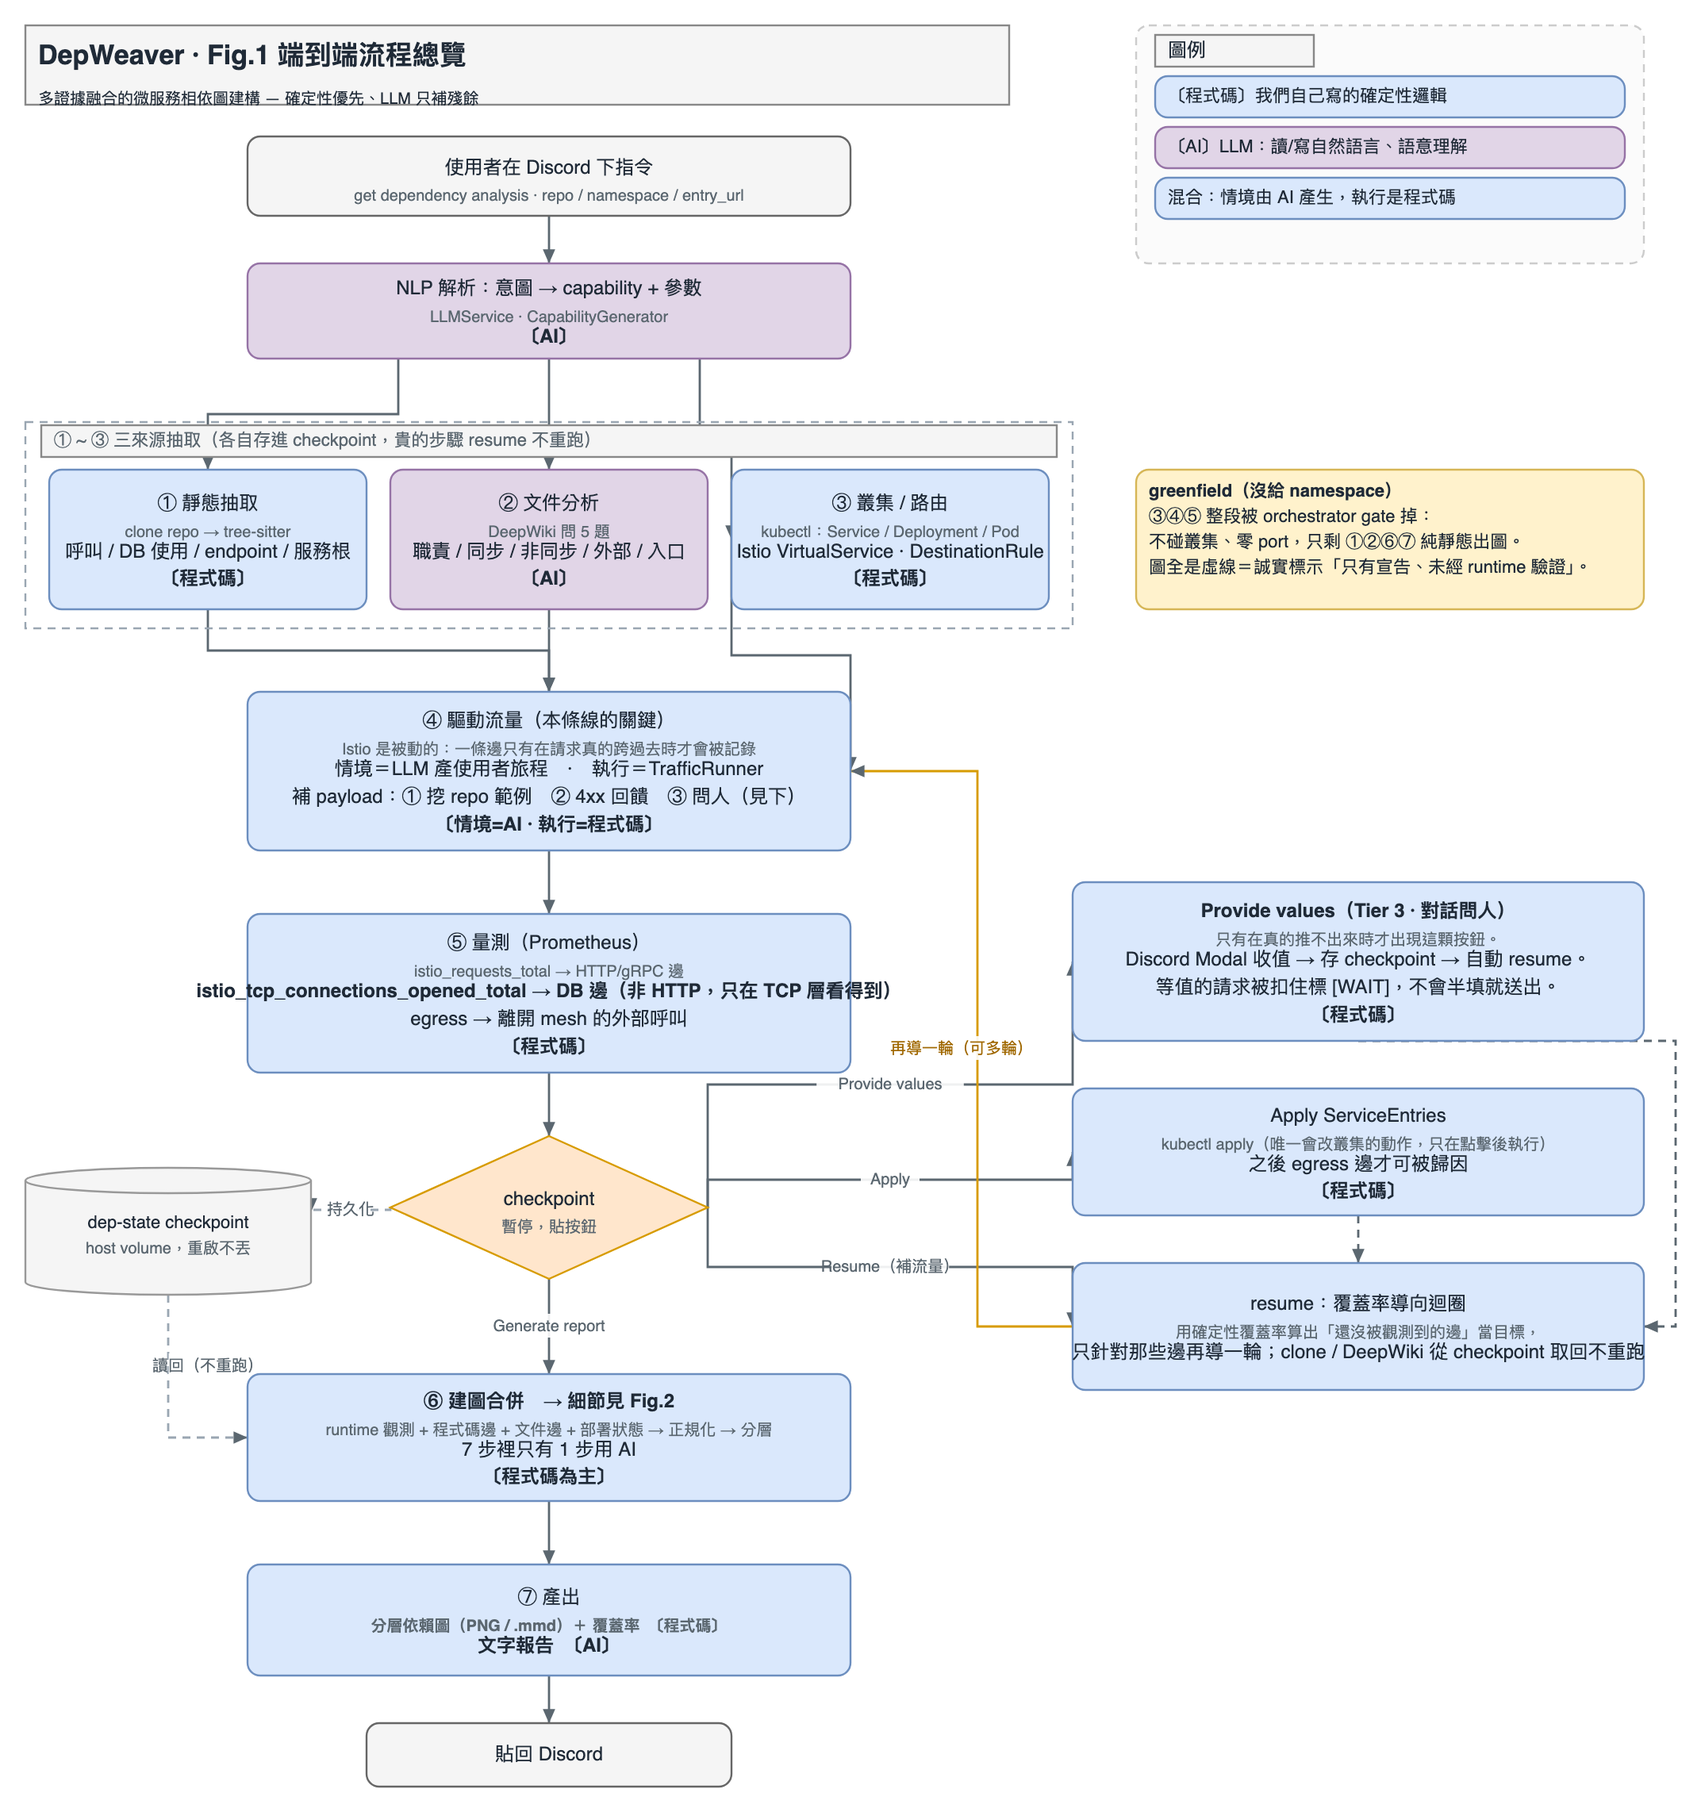
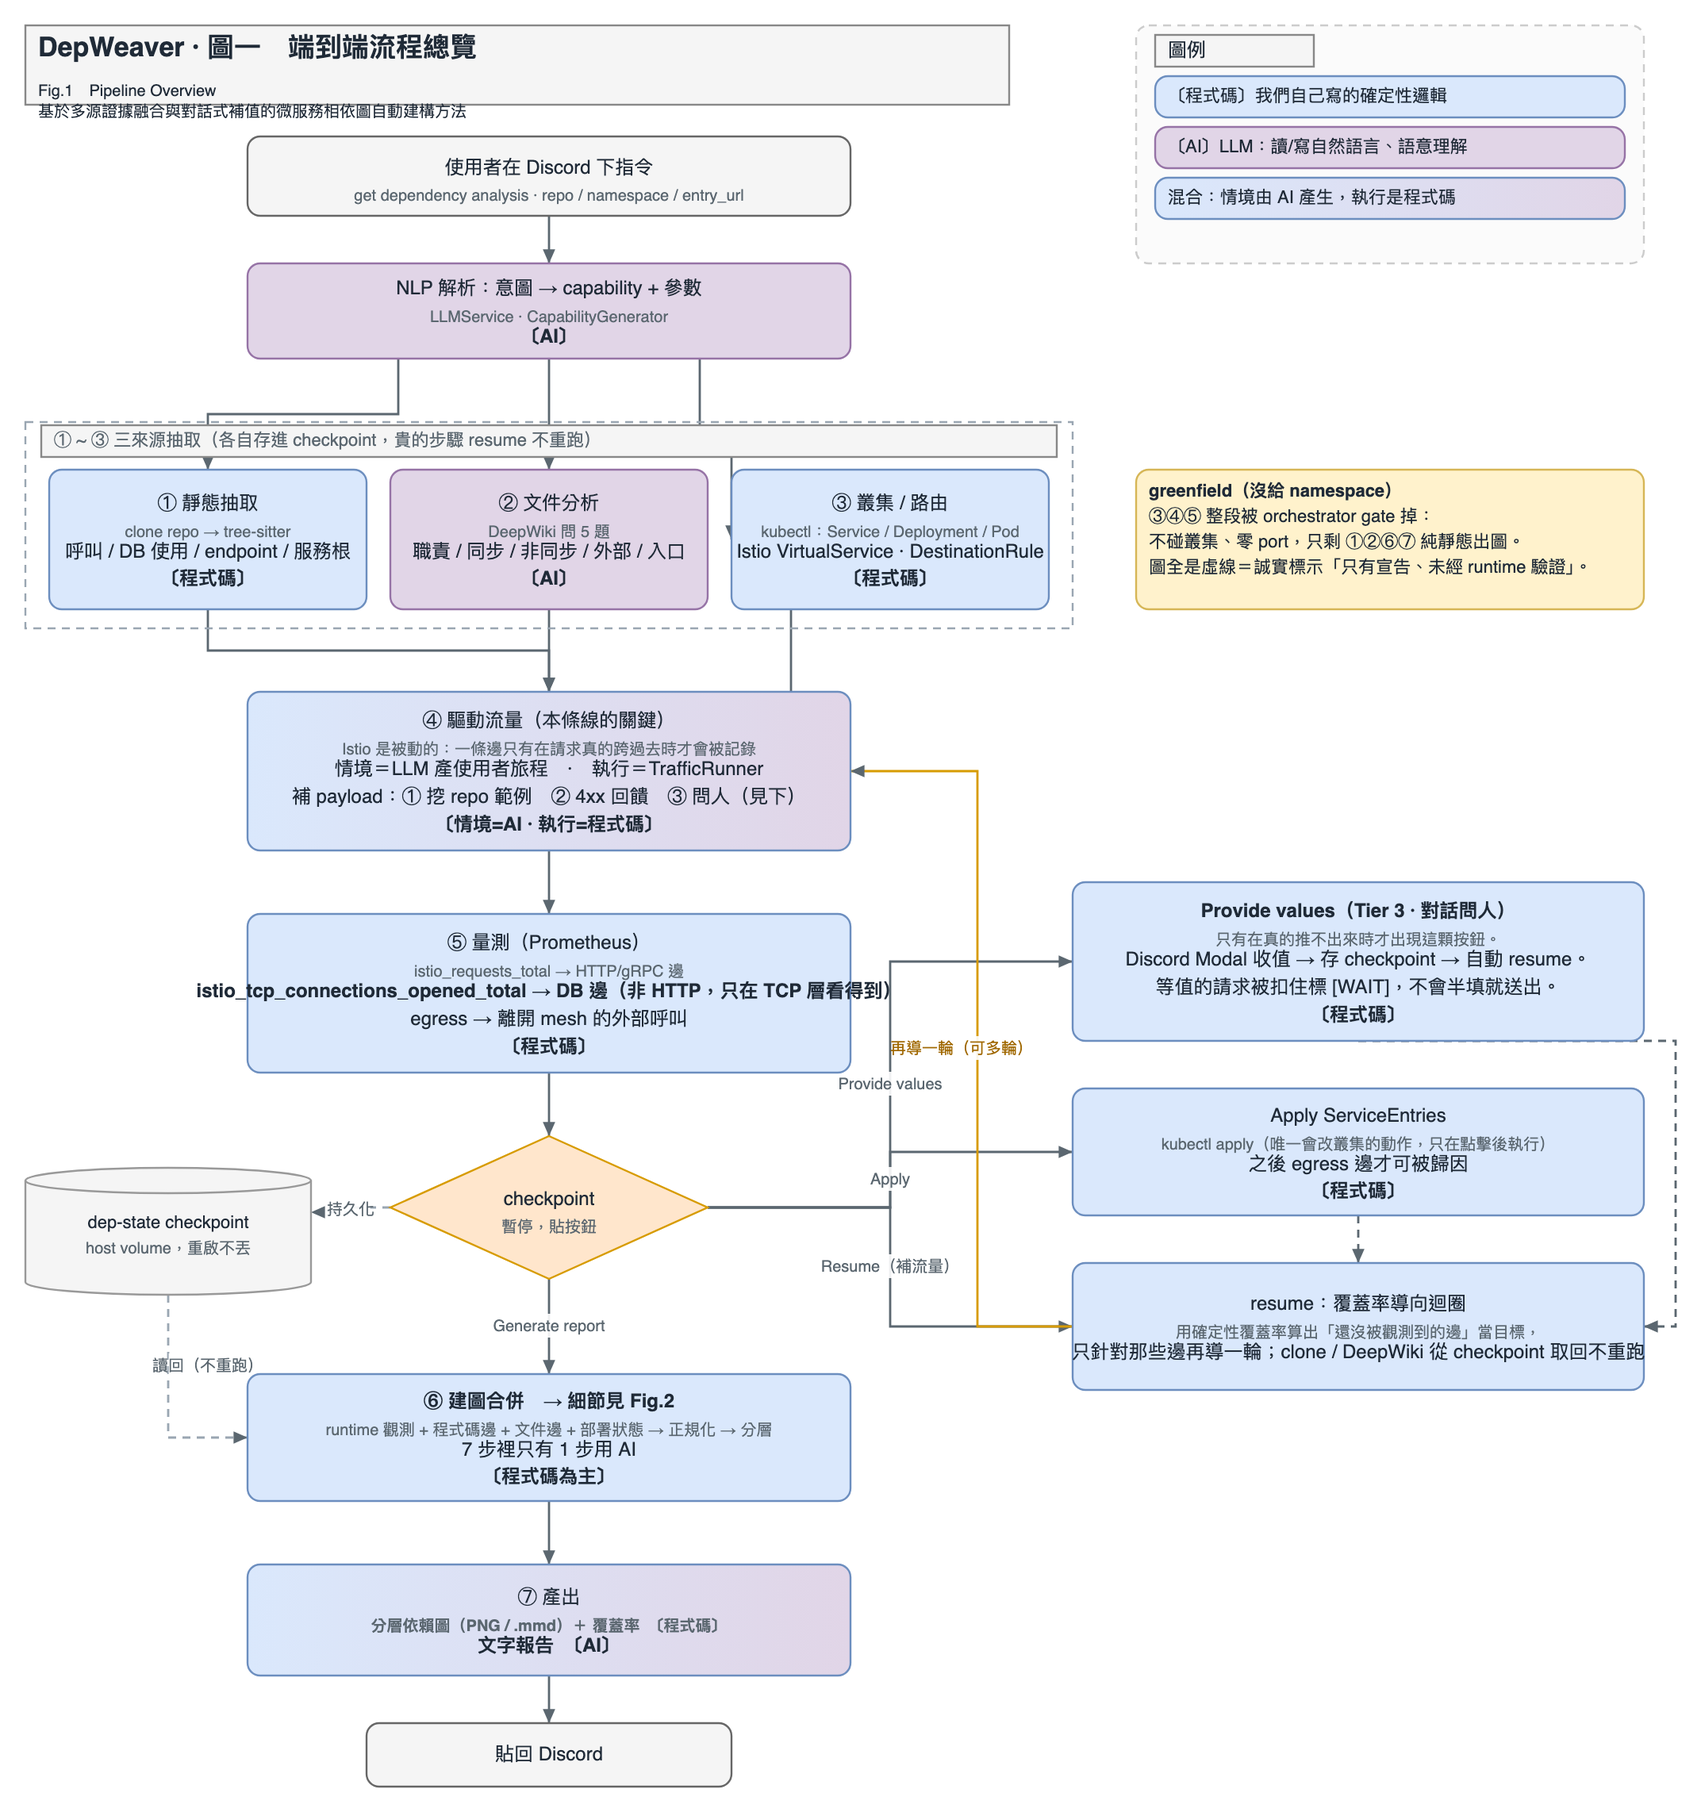
fix(docs): render the gradient and the orthogonal routing correctly
Two real defects in the .drawio renderer, both visible in the exported figure:

- gradientColor was dropped ("flat fill is close enough"). It is not: the
  diagram encodes 程式碼 as blue and AI as purple, and the one step that is both
  — traffic driving, where the LLM writes the journey and our runner sends it —
  is a blue-to-purple gradient. Flattened, it was indistinguishable from a
  pure-code step, including in the legend where that contrast is the entire
  point. Now emitted as a linearGradient.
- Edges leaving a node's left/right face turned vertically first, which stacked
  the three checkpoint branches onto one shared column and drew them as a T.
  Leave sideways -> go horizontal first.

Figure titles now carry both names (圖一 端到端流程總覽 / Fig.1 Pipeline
Overview), and the script gains a section per figure walking through it: what
the colours encode, the seven steps, the three interactive branches, the
feedback loop, and the nine-step merge chain with its single AI step.

Changed region(s): [[0.0, 0.0, 0.2812, 0.0622], [0.5625, 0.6217, 0.625, 0.6528], [0.4375, 0.3419, 0.4688, 0.373]]

diff --git a/docs/diagrams/drawio2svg.py b/docs/diagrams/drawio2svg.py
@@ -45,6 +45,37 @@ def esc(t):
     return html.escape(t, quote=True)
 
 
+def grad_defs(nodes):
+    """One linearGradient per fill/gradient pair actually used.
+
+    Not decoration: the diagram encodes 〔程式碼〕 as blue and 〔AI〕 as purple, and a
+    step that is BOTH (traffic driving: the LLM writes the journey, our runner sends
+    it) is drawn as a blue-to-purple gradient. Flattening it to the base colour makes
+    that step indistinguishable from a pure-code one — including in the legend, where
+    the distinction is the whole point.
+    """
+    out, seen = [], {}
+    for n in nodes.values():
+        g = n["style"].get("gradientColor")
+        if not g:
+            continue
+        f = n["style"].get("fillColor", "#ffffff")
+        key = f + g
+        if key in seen:
+            continue
+        gid = "g%d" % len(seen)
+        seen[key] = gid
+        n["style"]["_grad"] = gid
+        out.append('<linearGradient id="%s" x1="0" y1="0" x2="1" y2="0">'
+                   '<stop offset="0" stop-color="%s"/><stop offset="1" stop-color="%s"/>'
+                   '</linearGradient>' % (gid, f, g))
+    for n in nodes.values():
+        g = n["style"].get("gradientColor")
+        if g:
+            n["style"]["_grad"] = seen[n["style"].get("fillColor", "#ffffff") + g]
+    return "".join(out)
+
+
 def render(path, out_path):
     root = ET.parse(path).getroot()
     model = root.find("diagram").find("mxGraphModel")
@@ -89,7 +120,7 @@ def render(path, out_path):
         f'width="100%" role="img" aria-label="DepWeaver 流程圖">',
         '<defs><marker id="a" viewBox="0 0 10 10" refX="9" refY="5" markerWidth="7" '
         'markerHeight="7" orient="auto-start-reverse">'
-        '<path d="M0,1 L9,5 L0,9 z" fill="#5b6770"/></marker></defs>',
+        '<path d="M0,1 L9,5 L0,9 z" fill="#5b6770"/></marker>' + grad_defs(nodes) + '</defs>',
         f'<rect width="{W:.0f}" height="{H:.0f}" fill="#ffffff"/>',
     ]
 
@@ -130,10 +161,18 @@ def render(path, out_path):
         for (px, py) in way:
             d.append(f"L {X(px)} {Y(prev[1])} L {X(px)} {Y(py)}")
             prev = (px, py)
-        # orthogonal finish
+        # Orthogonal finish. Which way to turn FIRST depends on the side the edge left
+        # from: leaving a node's left/right face and turning vertically first stacks
+        # every such edge onto one shared column (the three checkpoint branches came
+        # out as a T). Leave sideways -> go horizontal first, and vice versa.
+        left_right = st.get("exitX") in ("0", "1") or (
+            "exitX" not in st and abs(t["x"] - s["x"]) >= abs(t["y"] - s["y"]))
         if abs(prev[1] - y2) > 1 and abs(prev[0] - x2) > 1:
             if way:
                 d.append(f"L {X(x2)} {Y(prev[1])} L {X(x2)} {Y(y2)}")
+            elif left_right:
+                midx = (prev[0] + x2) / 2
+                d.append(f"L {X(midx)} {Y(prev[1])} L {X(midx)} {Y(y2)} L {X(x2)} {Y(y2)}")
             else:
                 midy = (prev[1] + y2) / 2
                 d.append(f"L {X(prev[0])} {Y(midy)} L {X(x2)} {Y(midy)} L {X(x2)} {Y(y2)}")
@@ -180,11 +219,9 @@ def render(path, out_path):
                        f'fill="{fill}" stroke="{stroke}" stroke-width="1.2"/>')
         elif not is_text:
             rx = 8 if st.get("rounded") == "1" else 0
-            grad = ""
-            if st.get("gradientColor"):
-                grad = ""  # flat fill is close enough at this size
+            paint = f'url(#{st["_grad"]})' if st.get("_grad") else fill
             svg.append(f'<rect x="{x}" y="{y}" width="{w}" height="{h}" rx="{rx}" '
-                       f'fill="{fill}" stroke="{stroke}" stroke-width="1.2"{dash}{grad}/>')
+                       f'fill="{paint}" stroke="{stroke}" stroke-width="1.2"{dash}/>')
 
         lines = label_lines(n["value"])
         if not lines:

diff --git a/docs/meeting-script-2026-09-03.md b/docs/meeting-script-2026-09-03.md
@@ -1,6 +1,6 @@
 # 逐頁講稿 · 2026/9/3 週進度會議
 
-> 對應簡報 16 頁，一頁一節。學生口吻、口語化。
+> 對應簡報 18 頁，一頁一節。圖名固定：**圖一 端到端流程總覽（Fig.1 Pipeline Overview）**、**圖二 證據合併鏈（Fig.2 Evidence Merge Chain）**。學生口吻、口語化。
 > **設計原則：把老師可能追問的，在講的當下就答掉**——每節的「先堵住」段落就是為此寫的，講的時候順著念下去即可，不要等被問。
 >
 > 簡報：`DepWeaver 真環境驗證`　·　程式碼：`feat/greenfield-static-dependency-graph`
@@ -236,9 +236,100 @@
 
 ---
 
-## P11 · ③ 流程圖改 Draw.io
+## P11 · 七步概覽
 
 **要講的**
+
+進圖之前先用這一頁把骨架講一次：**七個步驟，只有三步碰到 AI**——文件分析、驅動流量的「產情境」那半、以及產出的報告文字。其餘全是我們自己寫的確定性程式碼。
+
+右邊那排標籤就是在標這件事。下一頁進真正的流程圖，看到的顏色跟這裡是對應的。
+
+---
+
+## P12 · 圖一　端到端流程總覽（Fig.1　Pipeline Overview）
+
+> 這一頁和下一頁是**老師說要改成 Draw.io 的那兩張圖**。圖名固定成中英對照，以後討論直接叫「圖一」「圖二」。
+
+**開場一句**
+
+這就是那張流程圖，Draw.io 畫的。我想先講**怎麼看它**，再走一次流程。
+
+**先講顏色——這是全圖最重要的編碼**
+
+右上角圖例三格：
+
+- **藍色〔程式碼〕**：我們自己寫的確定性邏輯。
+- **紫色〔AI〕**：用 LLM，因為那一步需要讀或寫自然語言。
+- **藍紫漸層〔混合〕**：情境由 AI 產生、但執行的是我們的程式碼。
+
+**整張圖只有兩格是紫的、一格是漸層。** 所以「這整套是不是就靠一個 LLM」這個問題，看顏色就有答案。
+
+**然後走主流程，從上到下**
+
+- **使用者在 Discord 下指令**——給四個參數：repo、namespace、entry_url、auth_hint。
+- **NLP 解析〔AI〕**——把一句自然語言變成 capability 加參數。這裡用 AI 是應該的，它就是在讀自然語言。
+- **① ~ ③ 三來源抽取**（虛線框起來的那三格，代表它們是**平行**的）：
+  - **① 靜態抽取〔程式碼〕**：clone 原始碼，用 tree-sitter 解析出呼叫、DB 使用、endpoint、服務根。純解析，不是 AI。
+  - **② 文件分析〔AI〕**：問 DeepWiki 五題——職責、同步、非同步、外部、入口。要讀自然語言，所以用 AI。
+  - **③ 叢集 / 路由〔程式碼〕**：kubectl 抓 Service、Deployment、Pod，還有 Istio 的 VirtualService。
+  - 框上那行小字很重要：**各自存進 checkpoint**，所以 resume 的時候這些貴的步驟不會重跑。
+- **④ 驅動流量〔混合〕**——整條線的關鍵。框裡第一行寫著「Istio 是被動的：一條邊只有在請求真的跨過去時才會被記錄」，那是這一步存在的理由。情境是 LLM 產的（要懂 API 語意），但**執行器是我們自己寫的**。補 payload 的三層也標在這裡。
+- **⑤ 量測〔程式碼〕**——查 Prometheus。這格有三行，中間那行是**這次新加的**：`istio_tcp_connections_opened_total → DB 邊`，後面括號寫「非 HTTP，只在 TCP 層看得到」。
+- **checkpoint（橘色菱形）**——暫停，貼按鈕。菱形代表這是**決策點**，等使用者。
+- **⑥ 建圖合併〔程式碼〕**——細節在圖二。
+- **⑦ 產出**——圖和覆蓋率是程式碼算的，文字報告是 AI 寫的。
+- 最後**貼回 Discord**。
+
+**再講右邊三個分支**——那是 checkpoint 之後，使用者可以按的三顆按鈕：
+
+- **Provide values（Tier 3 · 對話問人）**——這次新加的。框裡寫「只有在真的推不出來時才出現這顆按鈕」。
+- **Apply ServiceEntries**——唯一會改叢集的動作，只在點擊後執行。
+- **resume：覆蓋率導向迴圈**——用確定性覆蓋率算出「還沒被觀測到的邊」當目標。
+
+**最後兩個細節**
+
+- **橘色那條線**寫「再導一輪（可多輪）」，從 resume 繞回到第 ④ 步。那就是迭代迴圈——**只針對缺的邊再導一輪**，不是整條重跑。
+- **左下角的圓柱**是 checkpoint 的持久化儲存，在 host volume 上，**重啟不丟**。虛線箭頭表示「讀回、不重跑」。
+- **右邊黃色便條**講 greenfield：沒給 namespace 的話，③④⑤ 整段會被 gate 掉，只剩 ①②⑥⑦ 純靜態出圖。
+
+**先堵住**
+
+- **「為什麼 NLP 那步要用 AI？不能用關鍵字比對嗎？」**——可以，但那樣使用者就得記指令格式。用 LLM 是為了讓他能用自己的話講。而且那一步就算解析錯，使用者馬上看得出來（參數不對），不會污染後面的圖。
+- **「三來源真的是平行的嗎？」**——邏輯上平行、實作上依序跑。虛線框是要表達「它們互相獨立、各存各的 checkpoint」，不是在講執行緒。
+
+---
+
+## P13 · 圖二　證據合併鏈（Fig.2　Evidence Merge Chain）
+
+**開場一句**
+
+這張是上一張第 ⑥ 步「建圖合併」的細節。標題那行就是全圖的觀念：**由強到弱一層層疊**。
+
+**先講那個觀念**
+
+證據有強弱之分：**runtime 真的觀測到（實線）＞ code/doc 宣告（虛線）＞ 只宣告、沒有使用證據（點線）**。合併的順序就是照這個強弱來的——先鋪最強的，後面的疊上去。
+
+右上角那格圖例把三層寫清楚了，最後一行特別重要：**addEdge 取 max，疊上去只會變強，不會變弱**。所以先後順序不會讓證據被稀釋。
+
+**左邊六個圓柱是輸入**——都是 checkpoint 裡存的原始證據：traffic_raw、egress_raw、tcp_raw、code_edges、merged_notes、k8s_raw。它們各自餵給右邊對應的步驟。
+
+**中間九步，從上到下**
+
+1. **runtime 骨架**——先用 Istio 觀測到的邊當骨架，因為那是最強的證據。之後所有東西疊在這上面。
+2. **併 egress 邊**——已經被 ServiceEntry 歸因的外部 host 併進來，例如 config-server → github.com。
+3. **併 in-mesh TCP 邊（DB）**——**這是這次新加的**。框裡寫得很清楚：Istio 只對 HTTP/gRPC 產 requests 指標，資料庫連線是不透明 TCP，只在這裡看得到，所以**原本只能是虛線的 db 邊，升級成實線**。
+4. **併程式碼邊**——runtime 也看到就合併；只有 code 宣告就加一條虛線。host 是變數的時候用 env-address 或路徑段解出目標，**那是確定性的、不是 AI**。
+5. **併文件邊、提升「真用」DB**——文件只 enrich、不 invent。服務有 ORM 標記就把 db 邊從「只宣告」升級成「真的有用」。
+6. **標部署狀態**——宣告了但叢集其實沒在跑的，畫成灰底紅框虛線。
+7. **正規化**——清掉框架 lib 造成的幽靈節點、合併別名。
+8. **LLM 補殘餘〔AI〕**——**整張圖只有這一格是紫的**。只有確定性都解不掉的殘餘才丟給 LLM 猜，而且嚴格驗證它給的 source 和 target 真的存在。框裡最後一句是這條線的原則：**能用規則解的絕不丟給 AI，圖才可重現、不亂猜**。
+9. **分層**——就是老師說的那點，入口 → 依呼叫深度 → 資料層 → 外部 → 無相依。
+
+**中間偏下的綠色框**是 `DependencyGraph`，也就是最終的資料模型。**右邊三個輸出**都從它來：Mermaid、Graphviz PNG、覆蓋率。這一點很關鍵——**三個產物同源**，所以它們不可能互相矛盾。
+
+**右邊黃色便條**回答一個常見疑問：**greenfield 為什麼全是虛線**？因為沒有第 1~3 步的 runtime 骨架，所有邊都落在第 4、5 步的 code/doc，自然全是虛線。**這是誠實的**：它老實說「這些是宣告出來的，還沒被 runtime 驗證過」。
+
+**接著講界線（這頁下方那段小字）**
 
 這一點我想先講清楚一條**界線**，免得誤會成「整套繪圖換掉了」：
 
@@ -256,7 +347,14 @@ Fig.1 上我做了一件事想特別說：**每個節點都標了是〔程式碼
 
 ---
 
-## P12 · ★ 七個 bug（上）
+**先堵住**
+
+- **「九步為什麼只有一步用 AI？其他不能也用嗎？」**——可以，但沒必要，而且會更差。前七步都是規則明確的合併與清理，用程式碼寫出來**每次結果都一樣**；交給 LLM 只會讓圖變得不可重現。第 8 步之所以留給 AI，是因為那裡剩下的東西**規則真的解不掉**（host 是變數、又沒有範本可對）。
+- **「三個輸出同源有什麼好處？」**——這正是我這次修掉的一個 bug。以前報告不是從這張圖來的，是另外用 LLM 從原始資料推導的——結果報告說 db 邊「不確定」，旁邊的圖卻畫實線。現在它們共用同一個物件，不可能再各說各話。
+
+---
+
+## P14 · ★ 七個 bug（上）
 
 **要講的**
 
@@ -278,7 +376,7 @@ Fig.1 上我做了一件事想特別說：**每個節點都標了是〔程式碼
 
 ---
 
-## P13 · ★ 七個 bug（下）
+## P15 · ★ 七個 bug（下）
 
 **要講的**
 
@@ -299,7 +397,7 @@ Fig.1 上我做了一件事想特別說：**每個節點都標了是〔程式碼
 
 ---
 
-## P14 · ★ 第 5、6 個是同一個病
+## P16 · ★ 第 5、6 個是同一個病
 
 **要講的**
 
@@ -326,7 +424,7 @@ Fig.1 上我做了一件事想特別說：**每個節點都標了是〔程式碼
 
 ---
 
-## P15 · ★ 可能被問：這些修正只對這個 repo 有效嗎？
+## P17 · ★ 可能被問：這些修正只對這個 repo 有效嗎？
 
 **要講的**
 
@@ -351,7 +449,7 @@ Fig.1 上我做了一件事想特別說：**每個節點都標了是〔程式碼
 
 ---
 
-## P16 · 下一步 · 收尾
+## P18 · 下一步 · 收尾
 
 **要講的**
 
